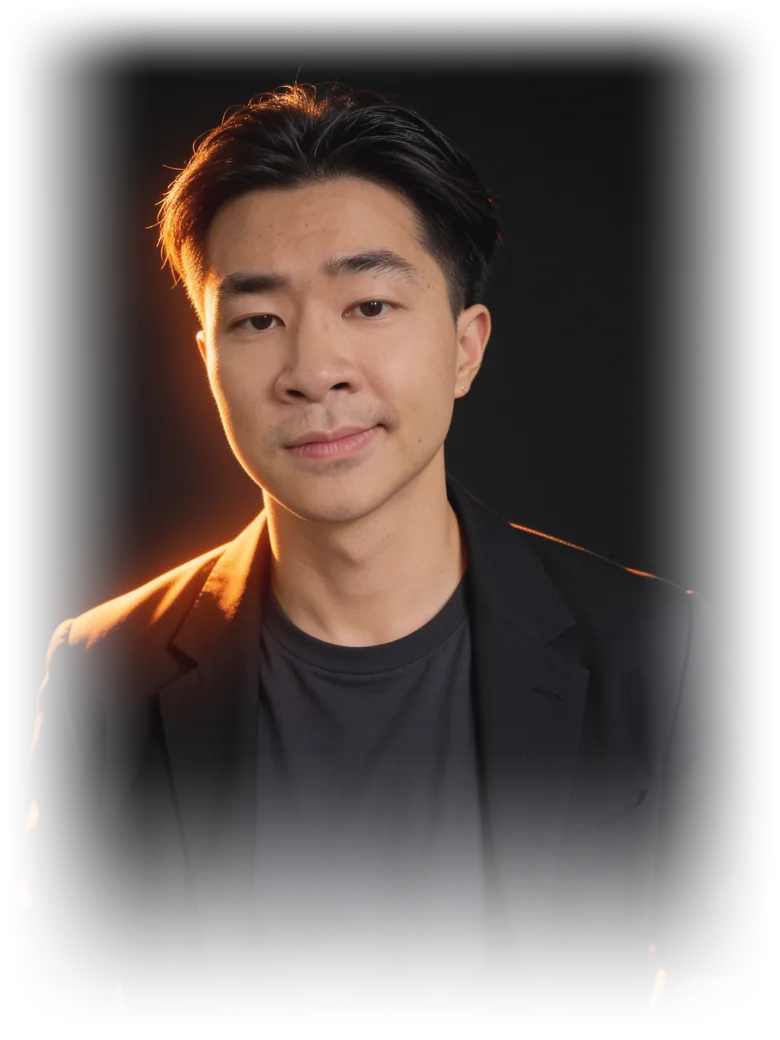
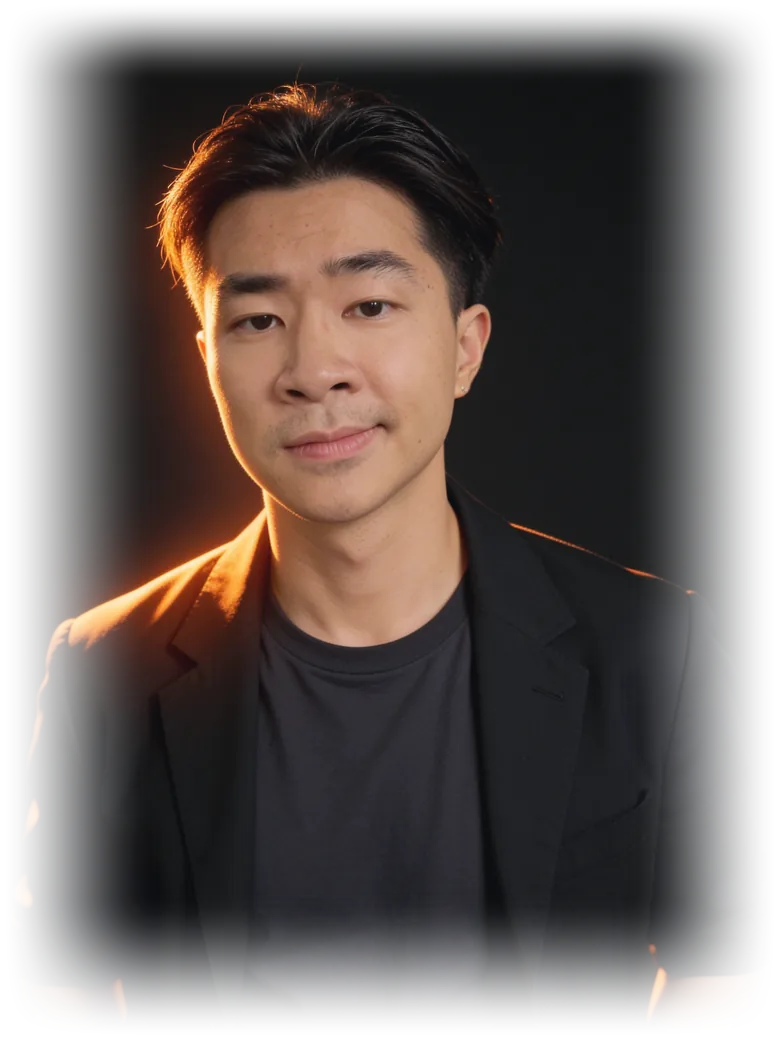
Add files via upload

Changed region(s): [[0.0308, 0.7385, 0.9538, 0.9846]]

diff --git a/styles.css b/styles.css
@@ -302,6 +302,8 @@ h3 {
   opacity: 0;
   transform: translateY(0.6em) rotate(1.5deg);
   transform-origin: left bottom;
+}
+.intro-done .hero__title .w {
   animation: word-in 1s var(--ease) forwards;
   animation-delay: calc(var(--i) * 55ms + 120ms);
 }
@@ -312,35 +314,93 @@ h3 {
   font-size: clamp(1rem, 1.3vw, 1.15rem);
   max-width: 44ch;
   opacity: 0;
-  animation: fade-up .9s var(--ease) .55s forwards;
 }
+.intro-done .hero__sub { animation: fade-up .9s var(--ease) .55s forwards; }
 .hero__actions {
   display: flex; flex-wrap: wrap; gap: .75rem;
   margin-top: 2rem;
   opacity: 0;
-  animation: fade-up .9s var(--ease) .7s forwards;
 }
+.intro-done .hero__actions { animation: fade-up .9s var(--ease) .7s forwards; }
 @keyframes fade-up { from { opacity: 0; transform: translateY(16px); } to { opacity: 1; transform: none; } }
 
 .hero__portrait {
   position: relative;
   z-index: 1;
   height: min(36vh, 340px);
-  width: auto;
-  margin-inline: auto;
+  width: 100%;
+  margin: 0;
   order: -1;
   opacity: 0;
-  animation: portrait-in 1.4s var(--ease) .1s forwards;
 }
+.intro-done .hero__portrait { animation: portrait-in 1.4s var(--ease) .1s forwards; }
 .hero__portrait img {
+  position: relative;
+  z-index: 1;
   height: 100%;
   width: auto;
-  margin-inline: auto;
+  margin-inline: auto 0;
   transform: translate3d(calc(var(--px, 0) * 1px), calc(var(--py, 0) * 1px), 0) scale(1.02);
   transition: transform .6s var(--ease);
   will-change: transform;
 }
 @keyframes portrait-in { from { opacity: 0; transform: translateY(30px) scale(0.98); } to { opacity: 1; transform: none; } }
+
+/* the "screen" the portrait steps out of */
+.hero__screen {
+  position: absolute;
+  left: 34%; right: 0; bottom: 0;
+  height: 58%;
+  border: 1px solid var(--line-strong);
+  border-radius: var(--radius);
+  background: linear-gradient(to bottom, rgba(255, 255, 255, 0.03), transparent 40%);
+  z-index: 0;
+}
+.hero__screen-bar {
+  position: absolute;
+  left: 0; right: 0; bottom: 0;
+  height: 36px;
+  display: flex; align-items: center; justify-content: space-between; gap: .75rem;
+  padding: 0 .9rem;
+  border-top: 1px solid var(--line);
+  font-size: .76rem;
+  color: var(--ink-2);
+}
+.hero__screen-url { overflow: hidden; text-overflow: ellipsis; white-space: nowrap; }
+.hero__screen-tag { color: var(--accent); white-space: nowrap; font-weight: 600; }
+
+/* speech bubble beside the portrait */
+.hero__bubble {
+  position: absolute;
+  z-index: 3;
+  left: 1%; top: 26%;
+  max-width: 36%;
+  margin: 0;
+  padding: .65rem .8rem;
+  background: var(--bg-3);
+  border: 1px solid var(--line-strong);
+  border-radius: 14px;
+  font-size: .84rem;
+  line-height: 1.4;
+  color: var(--ink);
+  box-shadow: 0 20px 40px -20px rgba(0, 0, 0, 0.9);
+  opacity: 0;
+  transform: translateY(8px) scale(0.96);
+  transition: opacity .5s var(--ease), transform .6s var(--ease);
+  pointer-events: none;
+}
+.hero__bubble.is-on { opacity: 1; transform: none; }
+.hero__bubble::after {
+  content: "";
+  position: absolute;
+  right: -7px; top: 50%;
+  width: 12px; height: 12px;
+  margin-top: -6px;
+  background: var(--bg-3);
+  border-right: 1px solid var(--line-strong);
+  border-top: 1px solid var(--line-strong);
+  transform: rotate(45deg);
+}
 
 @media (min-width: 960px) {
   .hero__grid { grid-template-columns: minmax(0, 7fr) minmax(0, 5fr); gap: 2rem; }
@@ -358,7 +418,83 @@ h3 {
     align-items: flex-end;
   }
   .hero__portrait img { height: 100%; width: 100%; max-width: 100%; object-fit: contain; object-position: right bottom; margin: 0; }
+  .hero__screen {
+    left: 4%; right: 0;
+    height: 62%;
+    border-bottom: 0;
+    border-radius: var(--radius) var(--radius) 0 0;
+  }
+  .hero__bubble {
+    left: -8%; top: 17%;
+    max-width: 210px;
+    font-size: .88rem;
+    padding: .7rem .9rem;
+  }
 }
+
+/* ---------- intro plate ---------- */
+.intro {
+  position: fixed;
+  inset: 0;
+  z-index: 90;
+}
+.intro.is-hidden { display: none; }
+body.intro-active { overflow: hidden; }
+.intro__plate {
+  position: absolute;
+  left: 0; right: 0;
+  height: 50%;
+  background: #07080a;
+  transition: transform 1.1s var(--ease);
+}
+.intro__plate--top { top: 0; }
+.intro__plate--bottom { bottom: 0; }
+.intro.is-leaving .intro__plate--top { transform: translateY(-101%); }
+.intro.is-leaving .intro__plate--bottom { transform: translateY(101%); }
+.intro__text {
+  position: absolute;
+  inset: 0;
+  display: grid;
+  align-content: center;
+  width: min(var(--container), 100% - var(--gutter) * 2);
+  margin-inline: auto;
+  transition: opacity .4s;
+}
+.intro.is-leaving .intro__text { opacity: 0; }
+.intro__line {
+  font-family: var(--font-display);
+  font-size: clamp(1.5rem, 3.4vw, 2.75rem);
+  font-weight: 600;
+  letter-spacing: -0.02em;
+  line-height: 1.15;
+  max-width: 26ch;
+  min-height: 2.3em;
+  color: var(--ink);
+  text-wrap: balance;
+}
+.intro__line::after {
+  content: "";
+  display: inline-block;
+  width: .45em; height: .95em;
+  margin-left: .12em;
+  vertical-align: -0.1em;
+  background: var(--accent);
+  animation: caret 1s steps(2, jump-none) infinite;
+}
+@keyframes caret { 50% { opacity: 0; } }
+.intro__skip {
+  position: absolute;
+  right: var(--gutter); bottom: 2rem;
+  padding: .6rem 1.1rem;
+  border: 1px solid var(--line-strong);
+  border-radius: var(--pill);
+  color: var(--ink-2);
+  font-size: .875rem;
+  background: rgba(255, 255, 255, 0.03);
+  transition: color .3s, border-color .3s, opacity .4s;
+}
+.intro__skip:hover { color: var(--ink); border-color: var(--ink-2); }
+.intro.is-leaving .intro__skip { opacity: 0; }
 
 /* ---------- clients marquee ---------- */
 .clients {
@@ -927,6 +1063,8 @@ h3 {
     transition-duration: 0.001ms !important;
   }
   .hero__title .w, .hero__sub, .hero__actions, .hero__portrait, .reveal { opacity: 1; transform: none; }
+  .hero__bubble { transition: none; }
+  .intro__line::after { animation: none; }
   .timeline::before { transform: none; }
   .timeline__step::before, .timeline__step > * { opacity: 1; transform: none; }
   .marquee__track { animation: none; flex-wrap: wrap; width: 100%; justify-content: center; row-gap: .75rem; }

diff --git a/main.js b/main.js
@@ -10,6 +10,115 @@
   const finePointer = window.matchMedia("(hover: hover) and (pointer: fine)").matches;
   const $ = (sel, ctx) => (ctx || document).querySelector(sel);
   const $$ = (sel, ctx) => Array.from((ctx || document).querySelectorAll(sel));
+  const body = document.body;
+
+  /* ---------- intro: the site speaks to the visitor before the hero appears ---------- */
+  const intro = $("[data-intro]");
+  let introDone = false;
+  const finishIntro = () => {
+    if (introDone) return;
+    introDone = true;
+    try { sessionStorage.setItem("introSeen", "1"); } catch (_) { /* private mode */ }
+    body.classList.remove("intro-active");
+    body.classList.add("intro-done");
+    if (intro) {
+      intro.classList.add("is-leaving");
+      setTimeout(() => intro.classList.add("is-hidden"), 1200);
+    }
+    document.dispatchEvent(new CustomEvent("intro:done"));
+  };
+
+  let introSeen = false;
+  try { introSeen = sessionStorage.getItem("introSeen") === "1"; } catch (_) { /* ignore */ }
+  const forceIntro = /[?&]intro\b/.test(location.search);
+
+  if (!intro || reduceMotion || (introSeen && !forceIntro)) {
+    if (intro) intro.classList.add("is-hidden");
+    introDone = true;
+    body.classList.add("intro-done");
+    setTimeout(() => document.dispatchEvent(new CustomEvent("intro:done")), 50);
+  } else {
+    body.classList.add("intro-active");
+    const lineEl = $("[data-intro-line]", intro);
+    const coarse = window.matchMedia("(pointer: coarse)").matches;
+    const width = window.innerWidth;
+    const device = coarse ? (width < 820 ? "a phone" : "a tablet") : "a computer";
+    let time = "";
+    try { time = new Date().toLocaleTimeString([], { hour: "numeric", minute: "2-digit" }).toLowerCase(); } catch (_) { /* ignore */ }
+    let city = "";
+    try {
+      const tz = Intl.DateTimeFormat().resolvedOptions().timeZone || "";
+      city = tz.includes("/") ? tz.split("/").pop().replace(/_/g, " ") : "";
+    } catch (_) { /* ignore */ }
+    const when = time ? ", at " + time + (city ? " " + city + " time" : "") : "";
+    const lines = [
+      "Hello. Yes, you.",
+      "You are on " + device + ", " + width + " pixels wide" + when + ".",
+      "Your customers find businesses the same way, in seconds.",
+      "So here is what I do with those seconds."
+    ];
+
+    let li = 0, ci = 0, timer = 0;
+    const type = () => {
+      const line = lines[li];
+      if (ci <= line.length) {
+        lineEl.textContent = line.slice(0, ci);
+        ci += 1;
+        timer = setTimeout(type, 13 + Math.random() * 14);
+        return;
+      }
+      if (li === lines.length - 1) { timer = setTimeout(finishIntro, 800); return; }
+      timer = setTimeout(() => {
+        li += 1; ci = 0; lineEl.textContent = "";
+        timer = setTimeout(type, 180);
+      }, 620);
+    };
+    timer = setTimeout(type, 350);
+
+    const skip = () => { clearTimeout(timer); finishIntro(); };
+    intro.addEventListener("click", skip);
+    document.addEventListener("keydown", (e) => {
+      if (!introDone && (e.key === "Escape" || e.key === "Enter" || e.key === " ")) skip();
+    });
+    setTimeout(skip, 11000); // never hold a visitor hostage
+  }
+
+  /* ---------- the "screen" behind the portrait shows the visitor's own address ---------- */
+  $$("[data-visitor-host]").forEach((el) => { el.textContent = location.host || "this screen"; });
+
+  /* ---------- speech bubble: small asides that react to the visitor ---------- */
+  const bubble = $("[data-bubble]");
+  if (bubble) {
+    const said = new Set();
+    let hideTimer = 0;
+    const heroInView = () => window.scrollY < window.innerHeight * 0.6;
+    const say = (key, text, ms) => {
+      if (said.has(key) || !heroInView()) return;
+      said.add(key);
+      bubble.textContent = text;
+      bubble.classList.add("is-on");
+      clearTimeout(hideTimer);
+      hideTimer = setTimeout(() => bubble.classList.remove("is-on"), ms || 6500);
+    };
+    document.addEventListener("intro:done", () => {
+      setTimeout(() => say("hello", "Hello, I am Alfred. Take your time."), 1500);
+      setTimeout(() => say("linger", "Still here? Most visitors decide in five seconds. Thank you for a few more."), 16000);
+    });
+    if (finePointer) {
+      document.addEventListener("mouseout", (e) => {
+        if (!e.relatedTarget && e.clientY <= 0) say("exit", "Leaving already? My WhatsApp is one tap away.");
+      });
+    }
+    const baseTitle = document.title;
+    document.addEventListener("visibilitychange", () => {
+      if (document.hidden) {
+        document.title = "Still here when you are | Alfred Wong";
+      } else {
+        document.title = baseTitle;
+        say("back", "Welcome back. I kept your place.");
+      }
+    });
+  }
 
   /* ---------- nav: scrolled state via sentinel, mobile menu ---------- */
   const nav = $("[data-nav]");

diff --git a/index.html b/index.html
@@ -30,6 +30,10 @@
   <link rel="preload" href="geist-latin.woff2" as="font" type="font/woff2" crossorigin>
   <link rel="preload" href="alfred-hero.webp" as="image" type="image/webp" imagesrcset="alfred-hero-sm.webp 780w, alfred-hero.webp 1200w" imagesizes="(max-width: 960px) 82vw, 44vw">
   <link rel="stylesheet" href="styles.css">
+  <noscript><style>
+    .intro { display: none; }
+    .hero__title, .hero__sub, .hero__actions, .hero__portrait { opacity: 1; animation: none; }
+  </style></noscript>
 
   <script type="application/ld+json">
   {
@@ -56,6 +60,21 @@
 <body>
   <a class="skip" href="#main">Skip to content</a>
   <div class="nav-sentinel" data-nav-sentinel aria-hidden="true"></div>
+
+  <!--
+    INTRO: the site addresses the visitor directly before the hero appears.
+    Lines are written in main.js from what the browser already knows (screen width, device type,
+    local time). Plays once per visit, can be skipped with a click or Esc, and is skipped entirely
+    for visitors who prefer reduced motion.
+  -->
+  <div class="intro" data-intro aria-hidden="true">
+    <div class="intro__plate intro__plate--top"></div>
+    <div class="intro__plate intro__plate--bottom"></div>
+    <div class="intro__text">
+      <p class="intro__line" data-intro-line></p>
+    </div>
+    <button class="intro__skip" type="button" data-intro-skip>Skip</button>
+  </div>
 
   <header class="nav" data-nav>
     <div class="wrap nav__inner">
@@ -102,6 +121,12 @@
           </div>
         </div>
         <div class="hero__portrait" data-parallax>
+          <div class="hero__screen" aria-hidden="true">
+            <div class="hero__screen-bar">
+              <span class="hero__screen-url" data-visitor-host>this screen</span>
+              <span class="hero__screen-tag">You are here</span>
+            </div>
+          </div>
           <img
             src="alfred-hero.webp"
             srcset="alfred-hero-sm.webp 780w, alfred-hero.webp 1200w"
@@ -109,6 +134,7 @@
             width="1200" height="1600"
             alt="Alfred Wong Kai Xiang, freelance website designer and social media marketer"
             fetchpriority="high" decoding="async">
+          <p class="hero__bubble" data-bubble role="status" aria-live="polite"></p>
         </div>
       </div>
     </section>

diff --git a/README.md b/README.md
@@ -37,6 +37,16 @@ Either way, every later push to GitHub redeploys the site automatically.
 
 The form works on any host with no backend. Pressing Send opens WhatsApp with the visitor's details pre-filled as a message to +60 10-507 2222. If your number ever changes, update it in three places in `index.html`: the WhatsApp button (`wa.me/...`), the form's `action`, and its `data-whatsapp` attribute.
 
+## The "fourth wall" intro
+
+The site speaks to the visitor before the hero appears, using only what the browser already knows (device type, screen width, local time). It plays once per visit, can be skipped with a tap, click, Esc, Enter or space, and is skipped entirely for visitors who prefer reduced motion. Add `?intro` to the address to watch it again, for example `https://your-site.pages.dev/?intro`.
+
+- Lines: edit the `lines` array in `main.js` (search for `Hello. Yes, you.`).
+- Speech bubble asides: the `say(...)` calls in `main.js`. Each one shows once per visit.
+- Tab title while the visitor is on another tab: search `main.js` for `Still here when you are`.
+- The outlined "screen" behind your portrait shows the visitor's own address and the words `You are here` (in `index.html`, search `hero__screen`).
+- To remove the intro completely, delete the `<div class="intro" ...>` block in `index.html`; everything else keeps working.
+
 ## Things to update once the site is live
 
 - **Your domain.** Search `index.html` for `alfredwong.netlify.app` and replace it with your real address, for example `alfredwongkaixiang.pages.dev` (canonical link, Open Graph and Twitter tags, JSON-LD). These need absolute URLs.
